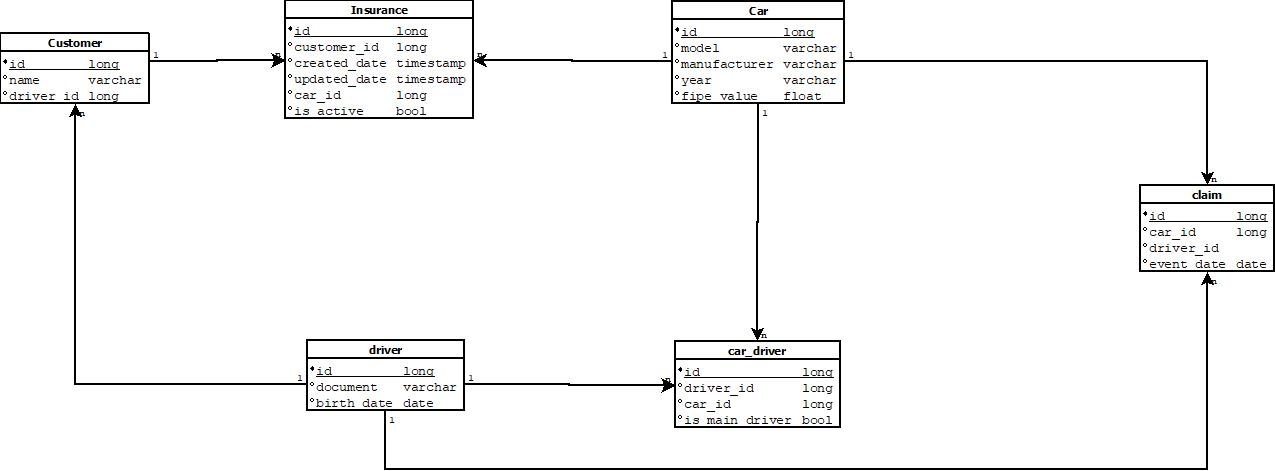
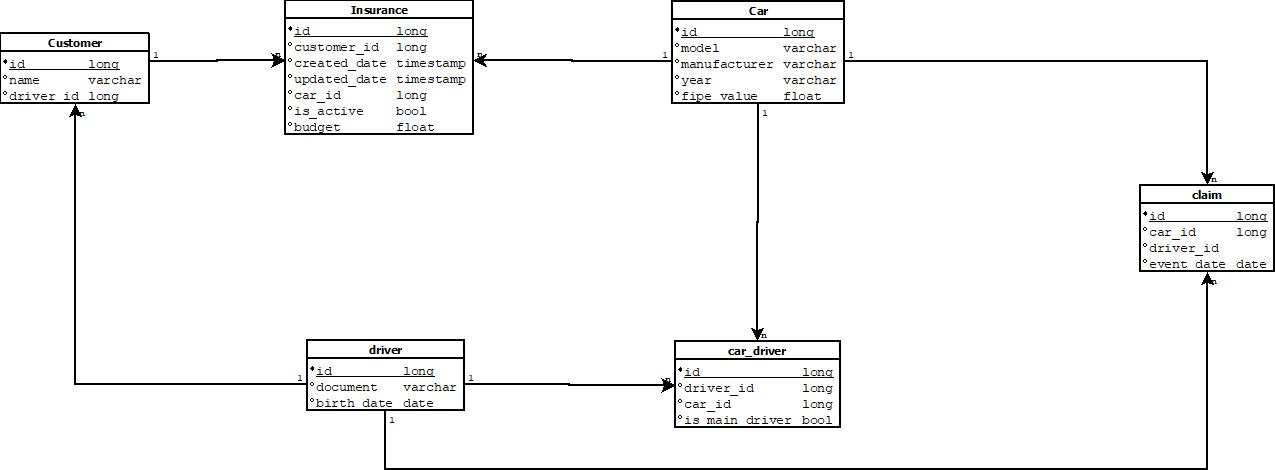
Atualizar diagrama db e adicionar openapi

diff --git a/src/main/java/br/com/audsat/desafio/controller/InsuranceController.java b/src/main/java/br/com/audsat/desafio/controller/InsuranceController.java
@@ -2,30 +2,64 @@ package br.com.audsat.desafio.controller;
 
 import br.com.audsat.desafio.dto.InsuranceDTO;
 import br.com.audsat.desafio.service.InsuranceService;
+import io.swagger.v3.oas.annotations.Operation;
+import io.swagger.v3.oas.annotations.responses.ApiResponse;
+import io.swagger.v3.oas.annotations.responses.ApiResponses;
+import io.swagger.v3.oas.annotations.tags.Tag;
 import org.springframework.beans.factory.annotation.Autowired;
+import org.springframework.http.MediaType;
 import org.springframework.web.bind.annotation.*;
 
 @RestController
-@RequestMapping("/insurance")
+@RequestMapping(value = "/insurance", produces = "application/json")
+@Tag(name = "Insurance")
 public class InsuranceController {
     @Autowired
     private InsuranceService service;
 
+    @Operation(summary = "Consulta o orçamento do seguro", method = "GET")
+    @ApiResponses(value = {
+            @ApiResponse(responseCode = "200", description = "Consulta realizada com sucesso"),
+            @ApiResponse(responseCode = "422", description = "Dados de requisição inválida"),
+            @ApiResponse(responseCode = "400", description = "Parametros inválidos"),
+            @ApiResponse(responseCode = "500", description = "Erro ao realizar a consulta"),
+    })
     @GetMapping("/budget/{insuranceId}")
     public InsuranceDTO get(@PathVariable("insuranceId") Long id){
         return service.findById(id);
     }
 
+    @Operation(summary = "Atualiza um orçamento com os dados fornecidos", method = "PUT")
+    @ApiResponses(value = {
+            @ApiResponse(responseCode = "200", description = "Atualização realizada com sucesso"),
+            @ApiResponse(responseCode = "422", description = "Dados de requisição inválida"),
+            @ApiResponse(responseCode = "400", description = "Parametros inválidos"),
+            @ApiResponse(responseCode = "500", description = "Erro ao realizar atualização dos dados"),
+    })
     @PutMapping("/budget/{insuranceId}")
     public InsuranceDTO update(@PathVariable("insuranceId") Long id, @RequestBody InsuranceDTO insurance){
         return service.updateById(id, insurance);
     }
 
-    @PostMapping("/budget")
+    @Operation(summary = "Cadastra um orçamento com os dados fornecidos", method = "POST")
+    @ApiResponses(value = {
+            @ApiResponse(responseCode = "200", description = "Cadastro realizado com sucesso"),
+            @ApiResponse(responseCode = "422", description = "Dados de requisição inválida"),
+            @ApiResponse(responseCode = "400", description = "Parametros inválidos"),
+            @ApiResponse(responseCode = "500", description = "Erro ao realizar cadastro dos dados"),
+    })
+    @PostMapping(path = "/budget", consumes = MediaType.APPLICATION_JSON_VALUE)
     public InsuranceDTO create(@RequestBody InsuranceDTO insurance){
         return service.create(insurance);
     }
 
+    @Operation(summary = "Remove um orçamento com os dados fornecidos", method = "DELETE")
+    @ApiResponses(value = {
+            @ApiResponse(responseCode = "200", description = "Remoção realizado com sucesso"),
+            @ApiResponse(responseCode = "422", description = "Dados de requisição inválida"),
+            @ApiResponse(responseCode = "400", description = "Parametros inválidos"),
+            @ApiResponse(responseCode = "500", description = "Erro ao realizar remoção dos dados"),
+    })
     @DeleteMapping("/budget/{insuranceId}")
     public void delete(@PathVariable("insuranceId") Long id){
         service.deleteById(id);

diff --git a/src/main/java/br/com/audsat/desafio/DesafioApplication.java b/src/main/java/br/com/audsat/desafio/DesafioApplication.java
@@ -1,10 +1,13 @@
 package br.com.audsat.desafio;
 
 import br.com.audsat.desafio.entity.Customer;
+import io.swagger.v3.oas.annotations.OpenAPIDefinition;
+import io.swagger.v3.oas.annotations.info.Info;
 import org.springframework.boot.SpringApplication;
 import org.springframework.boot.autoconfigure.SpringBootApplication;
 
 @SpringBootApplication
+@OpenAPIDefinition(info = @Info(title = "Swagger OpenApi", version = "1", description = "API desenvolvida para o desafio Audsat"))
 public class DesafioApplication {
 
 	public static void main(String[] args) {

diff --git a/README.md b/README.md
@@ -23,6 +23,7 @@ Após ter feito o download de todos os pré-requisitos, basta realizar a instala
 
 * Após finalizar as instalações necessárias, importe o projeto no intelliJ e depois vá em 'Run...'.
 * Para este sistema, fiz testes com junit4, para executá-los basta ir em: intelliJ -> Abrir o projeto -> src/test/java -> botão direito em 'java' -> 'Run tests...'
+* Diagramas: os diagramas do sistema encontram-se em src/main/resources/diagrams/
 
 ## 🛠 Construído com
 
